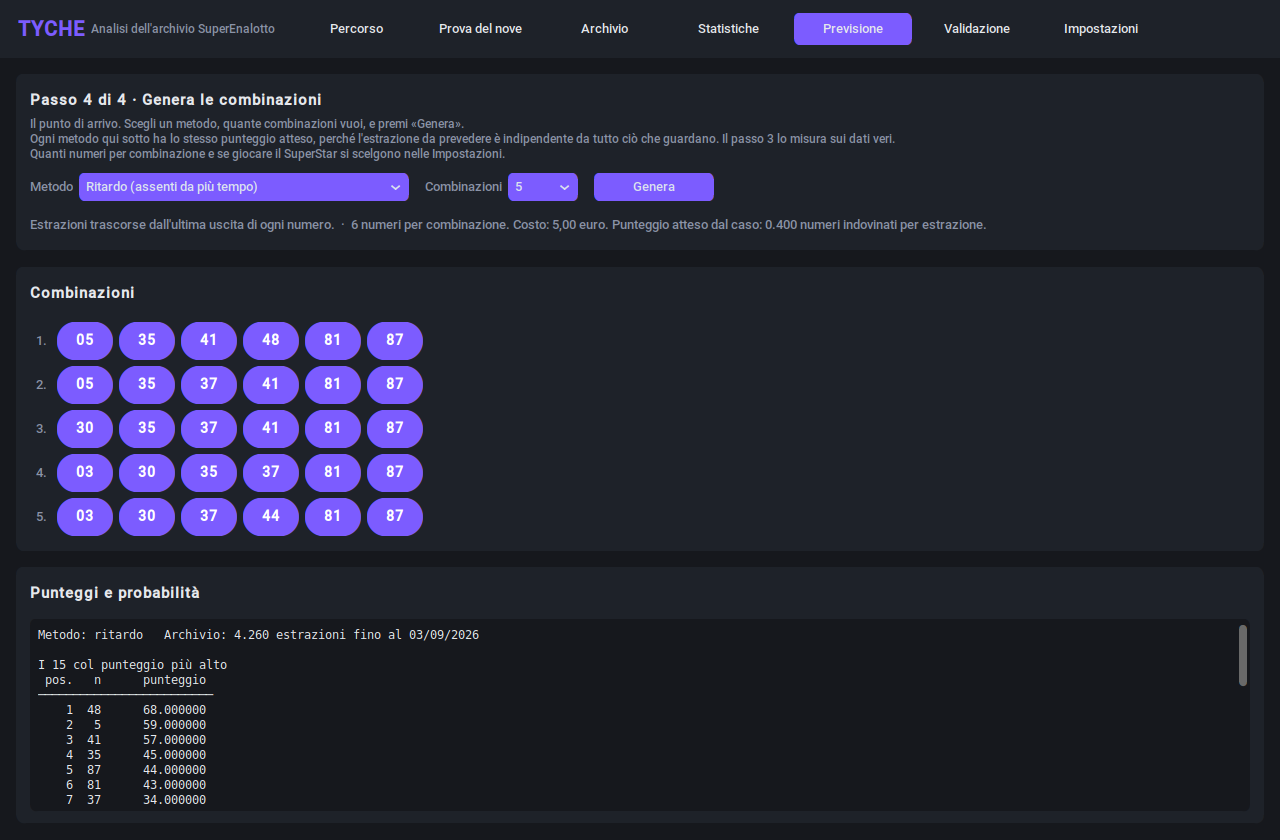
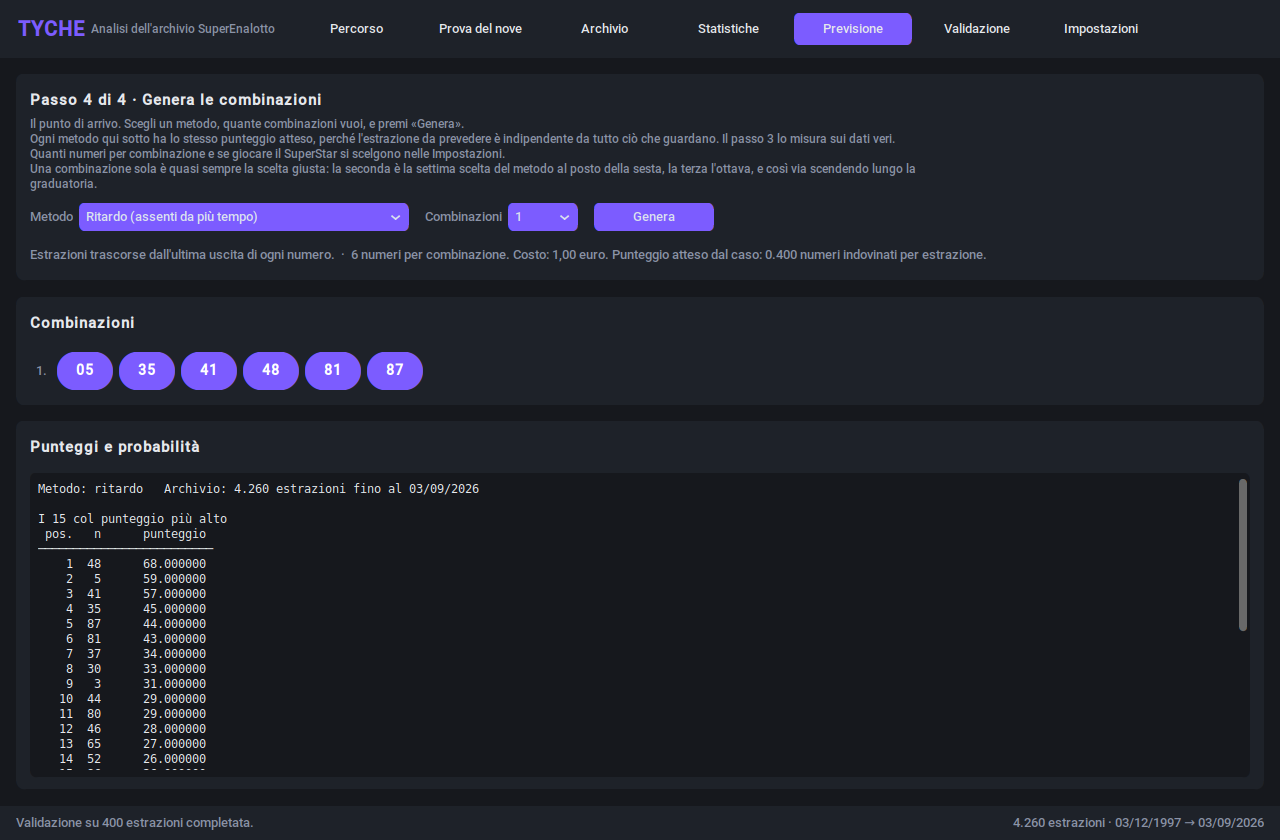
One combination by default, and the measurement that says why
The owner asked why anyone would generate more than one combination, since the
first is the six numbers the method ranks highest. He is right, and the answer
turned out to be measurable with machinery already here rather than arguable.

Combination k is ranked[k-1 : k-1+size] — the method's later preferences. Over
1,000 real draws with frequenza, the five combinations score 0.393, 0.377,
0.375, 0.352, 0.358: indistinguishable, inside one standard error, because a
method that knows nothing has no preferences worth respecting. Against a
forecaster with a deliberately leaked edge the same five score 1.486, 0.776,
0.417, 0.313, 0.304 — the first nearly five times the fifth, which is barely
above chance.

So more than one combination is never better per euro, and under real skill it
is strictly worse. The default was 5, which was a recommendation nobody had
justified and which quietly pointed at spending more. It is now 1, and the
panel says what the extra ones are instead of offering them blank.

This also answers the neighbouring question. If a player wants to stake more
than one column, a system is the better-argued way: a system of seven stays at
the top of the ranking, five sliding combinations reach down to rank ten.
Neither improves the return per euro — nothing does — but only one of them
spends the extra money on numbers the method actually liked.

Fixed while checking the output: the cost line read "1 colonne". core/localise
[…]

diff --git a/tests/test_core.py b/tests/test_core.py
@@ -2010,5 +2010,70 @@ def test_an_empty_prediction_costs_nothing_rather_than_raising():
     assert ticket_cost([]).total == 0.0
 
 
+def test_the_extra_combinations_are_the_methods_discarded_choices():
+    """Why the default is one combination, asserted rather than asserted at.
+
+    Combination k is ranked[k-1 : k-1+size] — the method's later preferences.
+    Against a forecaster that genuinely knows something, the first combination
+    must beat the fifth by a wide margin, because the fifth is built from
+    numbers the method ranked below the ones it discarded. On the real archive
+    the two are indistinguishable, which is the same fact seen from the other
+    side: a method that knows nothing has no preferences worth respecting.
+
+    So more than one combination is never better per euro, and under real skill
+    it is worse. That is a fact about the ranking, not about this archive.
+    """
+    import random
+
+    from core.archive import ALL_NUMBERS
+    from core.predictor import rank_numbers
+
+    draws = random_archive(500, seed=41)
+    scored, size = 300, 6
+    totals = [0, 0]
+    for i in range(len(draws) - scored, len(draws)):
+        rng = random.Random(i)
+        # A forecaster with a real edge: a fifth of the six leaked to the top.
+        scores = {n: rng.random() for n in ALL_NUMBERS}
+        for n in draws[i].numbers:
+            if rng.random() < 0.20:
+                scores[n] += 1.0
+        ranked = rank_numbers(scores)
+        actual = set(draws[i].numbers)
+        for slot, offset in enumerate((0, 4)):          # combinations 1 and 5
+            totals[slot] += len(actual & set(ranked[offset:offset + size]))
+
+    first, fifth = (v / scored for v in totals)
+    assert first > fifth * 2, (
+        f"the first combination should dominate: {first:.3f} vs {fifth:.3f}"
+    )
+
+
+def test_one_combination_is_the_shipped_default():
+    """The default is a recommendation, and this one has a measurement behind it."""
+    from core.data_manager import DEFAULT_SETTINGS
+
+    assert DEFAULT_SETTINGS["combinations"] == 1
+
+
+def test_the_cost_line_agrees_with_itself_in_number(cli, capsys):
+    """"1 colonne" is the kind of thing a reader notices and nothing catches."""
+    import core.data_manager as dm
+
+    settings = dm.load_settings()
+    settings["combinations"] = 1
+    settings["prediction_size"] = 6
+    dm.save_settings(settings)
+
+    _, out = _run(cli, ["--forecast", "frequenza"], capsys)
+    assert "1 colonna" in out
+    assert "1 colonne" not in out
+
+    settings["combinations"] = 3
+    dm.save_settings(settings)
+    _, out = _run(cli, ["--forecast", "frequenza"], capsys)
+    assert "3 colonne" in out
+
+
 if __name__ == "__main__":
     sys.exit(pytest.main([__file__, "-q"]))

diff --git a/gui/prediction_panel.py b/gui/prediction_panel.py
@@ -22,7 +22,7 @@ import customtkinter as ctk
 from core.data_manager import log_prediction
 from core.features import DEFAULT_WINDOW
 from core.forecaster import TimesFMForecaster
-from core.localise import it_date, it_number
+from core.localise import it_count, it_date, it_number
 from core.predictor import (
     METHODS,
     SUPERSTAR_ODDS,
@@ -55,9 +55,16 @@ def _cost_lines(prediction, cost) -> list[str]:
     lines = [
         f"Costo della giocata: {it_number(cost.total, 2)} euro"
         + (" (SuperStar compreso)." if cost.superstar else "."),
-        f"  {cost.plays} giocate da {cost.size} numeri = "
-        f"{it_number(cost.columns_paid)} colonne.",
+        f"  {it_count(cost.plays, 'giocata', 'giocate')} da {cost.size} numeri = "
+        f"{it_count(cost.columns_paid, 'colonna', 'colonne')}.",
     ]
+    if cost.plays > 1:
+        lines.append(
+            f"  Le combinazioni oltre la prima sono le scelte successive del "
+            f"metodo — la {cost.plays}ª è la sua {cost.size + cost.plays - 1}ª "
+            "preferenza. Non valgono di più per euro speso, e se il metodo "
+            "sapesse qualcosa varrebbero di meno."
+        )
     if cost.duplicated:
         share = cost.duplicated / cost.columns_paid
         lines += [
@@ -131,7 +138,10 @@ class PredictionPanel(ctk.CTkFrame):
             "l'estrazione da prevedere è indipendente da tutto ciò che guardano. "
             "Il passo 3 lo misura sui dati veri.\n"
             "Quanti numeri per combinazione e se giocare il SuperStar si scelgono "
-            "nelle Impostazioni.",
+            "nelle Impostazioni.\n"
+            "Una combinazione sola è quasi sempre la scelta giusta: la seconda è la "
+            "settima scelta del metodo al posto della sesta, la terza l'ottava, e "
+            "così via scendendo lungo la graduatoria.",
         )
         controls.pack(fill="x", padx=16, pady=(16, 8))
         row = ctk.CTkFrame(controls.body, fg_color="transparent")
@@ -148,7 +158,7 @@ class PredictionPanel(ctk.CTkFrame):
 
         ctk.CTkLabel(row, text="Combinazioni", text_color=MUTED).pack(side="left", padx=(0, 6))
         self.count = ctk.CTkOptionMenu(row, width=70, values=[str(i) for i in range(1, 11)])
-        self.count.set(str(self.app.settings.get("combinations", 5)))
+        self.count.set(str(self.app.settings.get("combinations", 1)))
         self.count.pack(side="left", padx=(0, 16))
 
         ctk.CTkButton(row, text="Genera", width=120, command=self._generate).pack(side="left")

diff --git a/tests/test_gui_smoke.py b/tests/test_gui_smoke.py
@@ -376,6 +376,9 @@ def test_the_prediction_prints_what_the_ticket_costs(app):
     app.settings["column_price"] = 1.0
     app.settings["superstar_price"] = 0.5
     panel.method.set(_LABELS["ritardo"])
+    # Set explicitly rather than leaning on the default, which is 1 since
+    # 0.6.1 — the duplication this checks only exists with several plays.
+    panel.count.set("5")
     panel._generate()
     app.update()
 
@@ -384,6 +387,22 @@ def test_the_prediction_prints_what_the_ticket_costs(app):
     # Five plays of 84 columns at 1.50 each.
     assert "630,00" in text
     assert "pagate due volte" in text
+
+
+def test_a_single_combination_wastes_nothing_and_says_so(app):
+    """The shipped default, and the reason it is the default."""
+    panel = app._panels["prediction"]
+    app.show("prediction")
+    app.settings["prediction_size"] = 9
+    app.settings["predict_superstar"] = False
+    panel.method.set(_LABELS["ritardo"])
+    panel.count.set("1")
+    panel._generate()
+    app.update()
+
+    text = panel.box.get("1.0", "end")
+    assert "pagate due volte" not in text
+    assert "scelte successive" not in text
 
 
 def test_validation_rejects_a_non_numeric_draw_count(app):

diff --git a/core/data_manager.py b/core/data_manager.py
@@ -73,7 +73,12 @@ DEFAULT_SETTINGS: dict[str, Any] = {
 
     # --- Prediction ---
     "prediction_method": "timesfm",   # "timesfm" | "frequenza" | "ritardo" | "casuale"
-    "combinations": 5,
+    # One, and the default is the argument. Combination 2 is the method's 7th
+    # choice instead of its 6th, 3 its 8th, and so on down the ranking. If a
+    # method knows nothing they all score the same and each is another euro
+    # for the same nothing; if a method knew something the extra ones would be
+    # strictly worse. Measured both ways — see CLAUDE.md.
+    "combinations": 1,
     # Numbers per combination. Six is a plain column; more is a sistema
     # integrale covering C(size, 6) columns, which is also what it costs.
     # core.predictor caps it at 12 — 924 columns — because the cost climbs

diff --git a/main.py b/main.py
@@ -39,7 +39,7 @@ import sys
 
 sys.path.insert(0, os.path.dirname(os.path.abspath(__file__)))
 
-from core.localise import it_date, it_number
+from core.localise import it_count, it_date, it_number
 from core.predictor import METHODS
 from core.version import APP_NAME, APP_TITLE, __version__
 
@@ -384,7 +384,7 @@ def _run_forecast(method: str) -> int:
     )
     print(
         f"\ncosto: {it_number(cost.total, 2)} euro "
-        f"({it_number(cost.columns_paid)} colonne"
+        f"({it_count(cost.columns_paid, 'colonna', 'colonne')}"
         + (f", di cui {it_number(cost.duplicated)} pagate due volte"
            if cost.duplicated else "")
         + ")"

diff --git a/core/version.py b/core/version.py
@@ -23,7 +23,7 @@ APP_TITLE = "Tyche — Analisi dell'archivio SuperEnalotto e previsioni con Time
 
 # Bump by hand on a release. A frozen executable has no .py sources on disk
 # to derive a date from — the same reasoning as Argus's version.py.
-__version__ = "0.6.0"
+__version__ = "0.6.1"
 
 # google/timesfm-3.0-pytorch, released 31 August 2026: 330M parameters, native
 # multivariate forecasting, and the reason Tyche can hand TimesFM all 90

diff --git a/CLAUDE.md b/CLAUDE.md
@@ -48,14 +48,14 @@ the instruction that overrides them.
 ## Running the tests
 
 ```
-python -m pytest tests/ -q                                   # 184 core tests
-TYCHE_REQUIRE_GUI=1 xvfb-run -a python -m pytest tests/ -q    # 222, GUI included
+python -m pytest tests/ -q                                   # 187 core tests
+TYCHE_REQUIRE_GUI=1 xvfb-run -a python -m pytest tests/ -q    # 226, GUI included
 python -m ruff check .
 ```
 
 **Tyche fixes the "a green run can be a lie" problem rather than warning about
 it.** `tests/test_gui_smoke.py` still skips itself when there is no `DISPLAY`
-or no `tkinter` — a bare `pytest tests/` on a headless box reports `184 passed,
+or no `tkinter` — a bare `pytest tests/` on a headless box reports `187 passed,
 1 skipped` and has tested no interface at all. The difference from Argus is
 that setting `TYCHE_REQUIRE_GUI=1` turns every such skip into a **failure**.
 Set it in CI, and set it in any session that intends to claim a GUI change was
@@ -501,6 +501,36 @@ page for whatever the caller runs next.
   reads it at all, which is the cheap half and the half that was missing.
   `test_the_settings_panel_offers_every_setting_a_user_should_set` is its
   mirror: declared, read, but unreachable from the interface.
+
+## Why one combination is the default
+
+The owner asked why anyone would generate more than one combination, since the
+first is the six numbers the method ranks highest. He was right, and the
+answer is a measurement rather than an argument. Combination *k* is
+`ranked[k-1 : k-1+size]` — the method's later preferences — so over 1,000 real
+draws and against a forecaster with a deliberately leaked edge:
+
+| | comb. 1 | comb. 2 | comb. 3 | comb. 4 | comb. 5 |
+|---|---|---|---|---|---|
+| `frequenza`, real archive | 0.393 | 0.377 | 0.375 | 0.352 | 0.358 |
+| a forecaster with a real edge | **1.486** | 0.776 | 0.417 | 0.313 | 0.304 |
+
+On the real archive the five are indistinguishable — the differences are
+inside one standard error — because a method that knows nothing has no
+preferences worth respecting. Against genuine skill the first combination
+scores nearly five times the fifth, which by then is barely above chance.
+
+**So more than one combination is never better per euro, and under real skill
+it is strictly worse.** The default was 5 and is now 1, and the panel says
+what the extra ones are. `test_the_extra_combinations_are_the_methods_discarded_choices`
+pins the second row of that table.
+
+This also settles the related question: if a player wants to stake more than
+one column, a *system* is the better-argued way to do it than more
+combinations. A system of seven stays at the top of the ranking; five sliding
+combinations reach down to rank ten. Neither improves the return per euro —
+nothing does — but only one of them spends the extra money on numbers the
+method actually liked.
 
 ## Systems, the SuperStar, and the one ratio that must not move
 

diff --git a/README.md b/README.md
@@ -279,6 +279,19 @@ una colonna vincente ma un 6, ventiquattro 5 e novanta 4 — perché ogni colonn
 che contiene cinque dei sei è anch'essa sulla schedina. La scheda Previsione
 stampa quella tabella.
 
+**Perché una combinazione sola.** La seconda combinazione è la settima scelta
+del metodo al posto della sesta, la terza l'ottava, e così via scendendo lungo
+la graduatoria. Su 1.000 estrazioni reali le cinque combinazioni segnano lo
+stesso punteggio — 0,393 contro 0,358, dentro un errore standard — perché un
+metodo che non sa niente non ha preferenze da rispettare. Ma contro un
+previsore a cui è stato dato un vantaggio vero, la prima combinazione segna
+1,486 centri per estrazione e la quinta 0,304, appena sopra il caso.
+
+Quindi più di una combinazione non vale mai di più per euro speso, e se il
+metodo sapesse qualcosa varrebbe di meno. Il valore predefinito è **1**. Se si
+vuole comunque puntare più di una colonna, un sistema è il modo meglio
+argomentato per farlo: resta in cima alla graduatoria invece di scendere.
+
 **Quanto costa.** La scheda Previsione stampa il costo della giocata che sta
 mostrando, ai prezzi che si impostano — un euro a colonna e cinquanta centesimi
 per il SuperStar, che si aggiunge a *ogni* colonna e non una volta sola. Sono
@@ -395,8 +408,8 @@ quello che fa `core/forecaster.py`.
 ## Eseguire i test
 
 ```
-python -m pytest tests/ -q                                    # 184 test core
-TYCHE_REQUIRE_GUI=1 xvfb-run -a python -m pytest tests/ -q     # 222, GUI compresa
+python -m pytest tests/ -q                                    # 187 test core
+TYCHE_REQUIRE_GUI=1 xvfb-run -a python -m pytest tests/ -q     # 226, GUI compresa
 python -m ruff check .
 ```
 

diff --git a/CHANGELOG.md b/CHANGELOG.md
@@ -12,6 +12,27 @@ numerazione il [versionamento semantico](https://semver.org/spec/v2.0.0.html).
 
 Niente, per ora.
 
+## [0.6.1] — 2026-09-06
+
+Una combinazione sola, e il perché misurato.
+
+### Cambiato
+
+- **Il valore predefinito delle combinazioni passa da 5 a 1.** La seconda
+  combinazione è la settima scelta del metodo al posto della sesta, la terza
+  l'ottava, e così via: sono le preferenze che il metodo aveva scartato.
+- Su 1.000 estrazioni reali le cinque combinazioni segnano lo stesso
+  punteggio, perché un metodo che non sa niente non ha preferenze da
+  rispettare. Contro un previsore a cui è stato dato un vantaggio vero, però,
+  la prima segna 1,486 centri per estrazione e la quinta 0,304 — appena sopra
+  il caso.
+- **Quindi più di una combinazione non vale mai di più per euro speso, e se il
+  metodo sapesse qualcosa varrebbe di meno.** La scheda Previsione lo dice
+  adesso, invece di offrire cinque combinazioni senza spiegare cosa siano.
+- Chi vuole comunque puntare più di una colonna trova la risposta meglio
+  argomentata in un sistema, che resta in cima alla graduatoria invece di
+  scendere lungo di essa.
+
 ## [0.6.0] — 2026-09-05
 
 Quanto costa la giocata, e dove finiscono i soldi.
